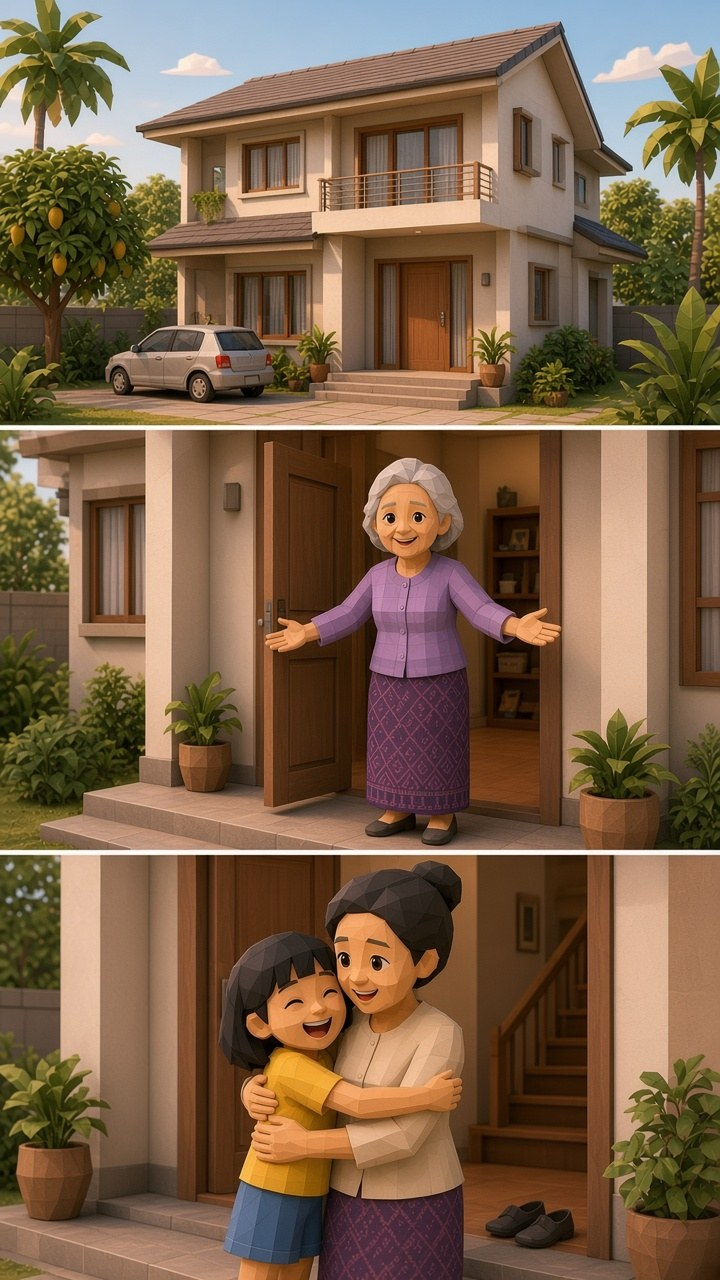
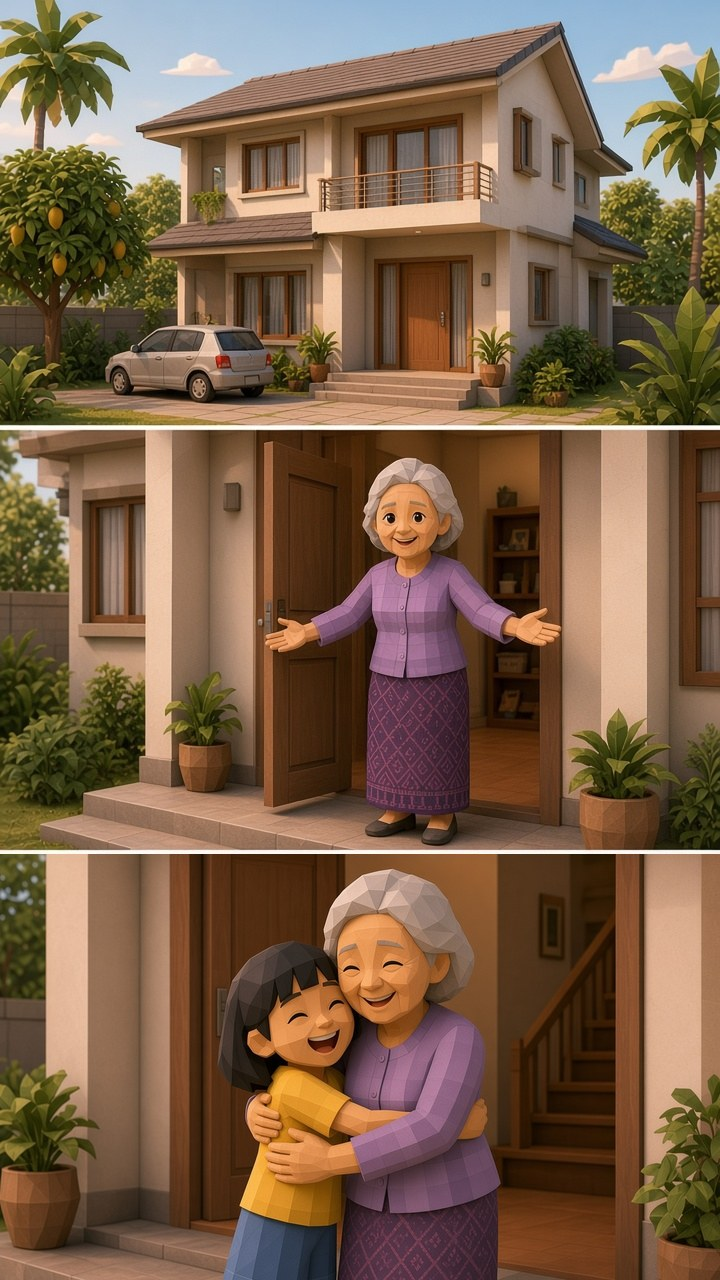
nes v0.6.35: opening page 2 - the child hugs Grandma, not Mom (cutscene 1.0.2, event-01 1.0.10, character 1.0.2)
Regenerate only the bottom panel of cutscene-01-p2.jpg: the child hugs Grandma Mali (same look as the middle panel) at the front door with the staircase behind. The top and middle panels are kept losslessly (jpegtran -drop at y 848). Face masks for the bottom panel now cover the child and Grandma; the prompt and character ids drop Mom.

Changed region(s): [[0.0, 0.6562, 1.0, 1.0]]

diff --git a/games/never-ending-story/src/modules/cutscene/registry.ts b/games/never-ending-story/src/modules/cutscene/registry.ts
@@ -22,7 +22,7 @@ export type Artwork = {
   order: number;
 };
 
-export const CUTSCENE_VERSION = '1.0.1';
+export const CUTSCENE_VERSION = '1.0.2';
 
 const STYLE =
   'Stylized low-poly 3D storybook illustration, faceted clay-like surfaces, warm cozy light, modern Thai two-storey family home, no text, no watermark.';
@@ -108,10 +108,10 @@ export const ARTWORKS: Artwork[] = [
     id: 'case-01.p2',
     file: 'cutscene-01-p2.jpg',
     usedIn: ['case-01', 'event-01'],
-    characterIds: ['grandma', 'mom', 'player'],
-    prompt: `${STYLE} Vertical three-panel comic in Saturday-morning light: (1) a modern Thai suburban two-storey house with cream walls, brown tiled roof, a balcony above the central wooden front door, low front steps and a small silver hatchback in the front yard; (2) Grandma Mali with short loose silver hair, lavender cardigan and purple pha sin welcoming with open arms in the open front doorway; (3) Mom hugging the laughing child at the front door, an indoor staircase behind. Character ids grandma, mom, player.`,
+    characterIds: ['grandma', 'player'],
+    prompt: `${STYLE} Vertical three-panel comic in Saturday-morning light: (1) a modern Thai suburban two-storey house with cream walls, brown tiled roof, a balcony above the central wooden front door, low front steps and a small silver hatchback in the front yard; (2) Grandma Mali with short loose silver hair, lavender cardigan and purple pha sin welcoming with open arms in the open front doorway; (3) the laughing child hugging Grandma Mali (same look as panel 2) at the front door, both faces visible, an indoor staircase behind; Mom is not in this panel. Character ids grandma, player.`,
     negative: `${NEGATIVE}, traditional Thai stilt house, raised wooden house, sunset`,
-    styleNotes: `Generated 2026-11-22 for house v2 phase 1; matches the modern interiors and house-map.jpg (front door in the middle, stairs inside). Grandma's hair stays short and loose. ${sheet}`,
+    styleNotes: `Generated 2026-11-22 for house v2 phase 1; matches the modern interiors and house-map.jpg (front door in the middle, stairs inside). Panel 3 regenerated 2026-11-22 (cutscene 1.0.2): the child hugs Grandma, not Mom; panels 1-2 kept losslessly. Grandma's hair stays short and loose. ${sheet}`,
     promptSource: 'original',
     version: CUTSCENE_VERSION,
     order: 2,

diff --git a/games/never-ending-story/src/modules/character/registry.ts b/games/never-ending-story/src/modules/character/registry.ts
@@ -23,7 +23,7 @@ export type Character = {
   version: string;
 };
 
-export const CHARACTER_VERSION = '1.0.1';
+export const CHARACTER_VERSION = '1.0.2';
 
 const STYLE =
   'Stylized low-poly 3D storybook render, faceted clay-like surfaces, large glossy eyes, warm cozy light, Thai family home, no text, no watermark.';
@@ -60,7 +60,7 @@ export const CHARACTERS: Character[] = [
     id: 'mom',
     nameKey: 'character.mom.name',
     roleKey: 'character.mom.role',
-    portraits: ['cutscene-01-p1.jpg', 'cutscene-01-p2.jpg'],
+    portraits: ['cutscene-01-p1.jpg'],
     prompt: `${STYLE} Mom, a Thai woman in her thirties, black hair in a neat bun, cream long-sleeve blouse, purple patterned skirt, warm smile, holding a phone or hugging the child.`,
     negative: NEGATIVE_BASE,
     styleNotes: 'Reconstructed from cutscene-01-p1.jpg. Her bun is part of this character only, not Grandma.',

diff --git a/games/never-ending-story/src/modules/event-01/GDD.md b/games/never-ending-story/src/modules/event-01/GDD.md
@@ -3,7 +3,7 @@
 | ฟิลด์ | ค่า |
 |---|---|
 | kind | event |
-| เวอร์ชัน | 1.0.9 |
+| เวอร์ชัน | 1.0.10 |
 | เทมเพลต | `docs/gdd/TEMPLATE.md` |
 | อ้างอิง | `docs/design/never-ending-story-game-spec-v0.4-th.md` |
 
@@ -49,6 +49,7 @@ event-core ^1.2.4, core >=0.6.24, crossword, jigsaw, slide
 ## 13. Changelog (ผูกกับเวอร์ชันโมดูล)
 | เวอร์ชัน | แอป | การเปลี่ยนแปลง |
 |---|---|---|
+| 1.0.10 | 0.6.35 | มาสก์หน้าฉากเปิดหน้า 2 ช่องล่างตามภาพใหม่: `p2-child-s3` และ `p2-grandma-s3` (เดิม `p2-mom-s3`) |
 | 1.0.9 | 0.6.34 | ย้ายลูกโป่งบทพูดฉากเปิดไม่ให้ทับหน้าตัวละคร (หน้า 1 แม่, หน้า 2–3 ย่า) และใส่มาสก์หน้าในข้อมูลหน้าฉากเปิด หน้า 2 ชื่อ "ถึงบ้านย่า" คำบรรยาย "เช้าวันเสาร์ ครอบครัวมาถึงบ้านของคุณย่า" (เดิมบ้านไม้) จุดห้องนั่งเล่นบนแผนผังบ้านย้ายลงมาที่กลางห้องนั่งเล่น (y 41) ตามแผนผังใหม่ |
 | 1.0.8 | 0.6.33 | ฉากเปิดหน้า 1: แม่ตอบคุณย่าในสายว่า "ได้ค่ะคุณแม่ พรุ่งนี้พวกเราจะไปเยี่ยมนะคะ" (เดิมหันมาพูดกับหนู) หนูได้ยินแล้วดีใจ |
 | 1.0.7 | 0.6.25 | ข้อความคดีและบทพูดใช้ปู่ รูปปู่จากคดีวางได้ที่ชั้นของที่ระลึกในห้องของฉัน |

diff --git a/games/never-ending-story/docs/gdd/core.md b/games/never-ending-story/docs/gdd/core.md
@@ -3,7 +3,7 @@
 | ฟิลด์ | ค่า |
 |---|---|
 | kind | core |
-| เวอร์ชัน | app (ตาม `package.json`, ตอนนี้ 0.6.34) |
+| เวอร์ชัน | app (ตาม `package.json`, ตอนนี้ 0.6.35) |
 | เทมเพลต | `docs/gdd/TEMPLATE.md` |
 | อ้างอิง | `docs/design/never-ending-story-game-spec-v0.4-th.md` |
 
@@ -71,6 +71,7 @@ D1: `players`, `player_state`, `player_events`, `player_home`, `runs` (มีค
 ## 13. Changelog (ผูกกับเวอร์ชันโมดูล)
 | เวอร์ชัน | แอป | การเปลี่ยนแปลง |
 |---|---|---|
+| 0.6.35 | 0.6.35 | ฉากเปิดหน้า 2 ช่องล่าง หนูกอดย่า ไม่ใช่แม่ (cutscene 1.0.2, event-01 1.0.10, character 1.0.2) |
 | 0.6.34 | 0.6.34 | คำบรรยายฉากไม่ทับหน้าตัวละคร (แถบเหนือภาพ) ลูกโป่งไม่ทับหน้า และเล่นซ้ำรีเซ็ตสถานะรอบนั้น บ้านย่าเป็นบ้านสองชั้นสมัยใหม่: ภาพเปิดเรื่องและแผนผังบ้านใหม่ คำบรรยายโปรล็อกหน้า 2 เป็น "บ้านสองชั้นของคุณย่ามะลิ" (event-core 1.2.8, event-01 1.0.9, cutscene 1.0.1) |
 | 0.6.33 | 0.6.33 | คำบรรยายฉากการ์ตูนอยู่ด้านบน แม่ตอบคุณย่าในสาย (event-core 1.2.7, event-01 1.0.8) |
 | 0.6.32 | 0.6.32 | ฉากเปิดเรื่องไม่มีข้อความทับกัน ปัดจอเพื่อเปลี่ยนหน้า ไม่มีปุ่มก่อนหน้า (รวมบทนำ) event-core 1.2.6 |

diff --git a/games/never-ending-story/src/modules/cutscene/GDD.md b/games/never-ending-story/src/modules/cutscene/GDD.md
@@ -3,7 +3,7 @@
 | ฟิลด์ | ค่า |
 |---|---|
 | kind | cutscene |
-| เวอร์ชัน | 1.0.1 |
+| เวอร์ชัน | 1.0.2 |
 | เทมเพลต | `docs/gdd/TEMPLATE.md` |
 | อ้างอิง | `public/data/case-flow.json`, `src/lib/prologue.ts` |
 
@@ -54,5 +54,6 @@ core >=0.6.13, character ^1.0.0 ผู้ใช้: โปรล็อก, event
 ## 13. Changelog (ผูกกับเวอร์ชันโมดูล)
 | เวอร์ชัน | แอป | การเปลี่ยนแปลง |
 |---|---|---|
+| 1.0.2 | 0.6.35 | `cutscene-01-p2.jpg` ช่องล่าง: หนูกอดย่ามะลิ (เดิมกอดแม่) ที่ประตูหน้าบ้าน ชุดและผมย่าตรงกับช่องกลาง ช่องบนและกลางคงเดิมแบบไม่บีบอัดซ้ำ `case-01.p2` เหลือตัวละคร grandma, player |
 | 1.0.1 | 0.6.34 | วาด `cutscene-01-p2.jpg` ใหม่เป็นบ้านสมัยใหม่สองชั้นตอนเช้า (เดิมเป็นเรือนไม้ใต้ถุนสูงตอนเย็น) ตัวละครชุดเดิม และวาด `house-map.jpg` ใหม่ ทางเข้าอยู่ด้านบน โซฟาชิดผนังล่างของห้องนั่งเล่น มีบันไดกับห้องน้ำแถวหน้า ห้องซ้ายล่างเป็นห้องนอนย่า สัดส่วน 3:4 เท่าเดิม พรอมต์ของสองภาพนี้เป็น `original` |
 | 1.0.0 | 0.6.13 | ทะเบียนภาพฉากที่ใช้จริง พรอมต์เขียนใหม่จากภาพ |
